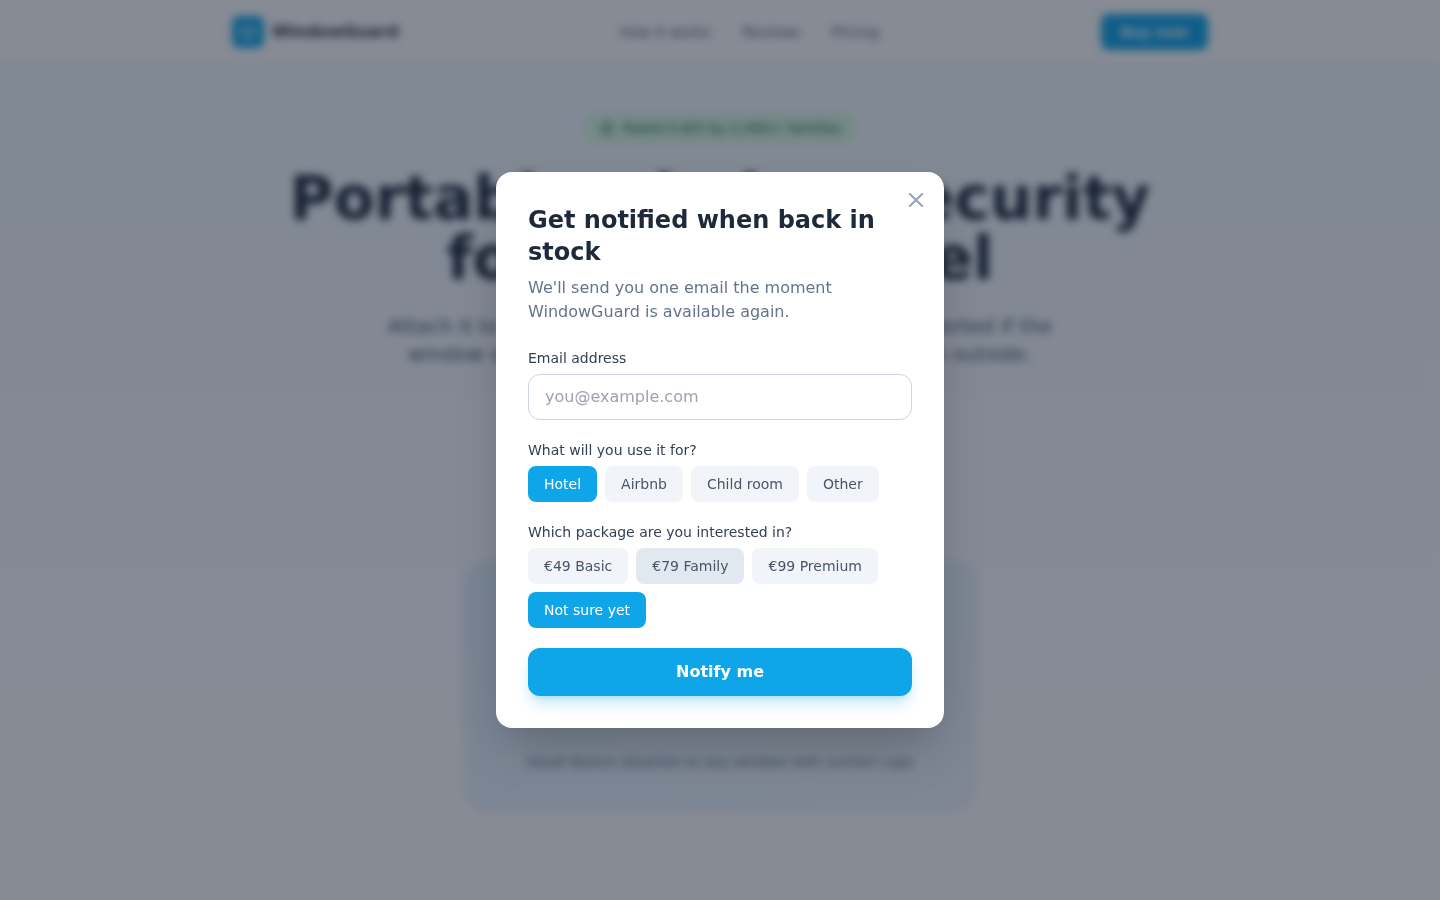
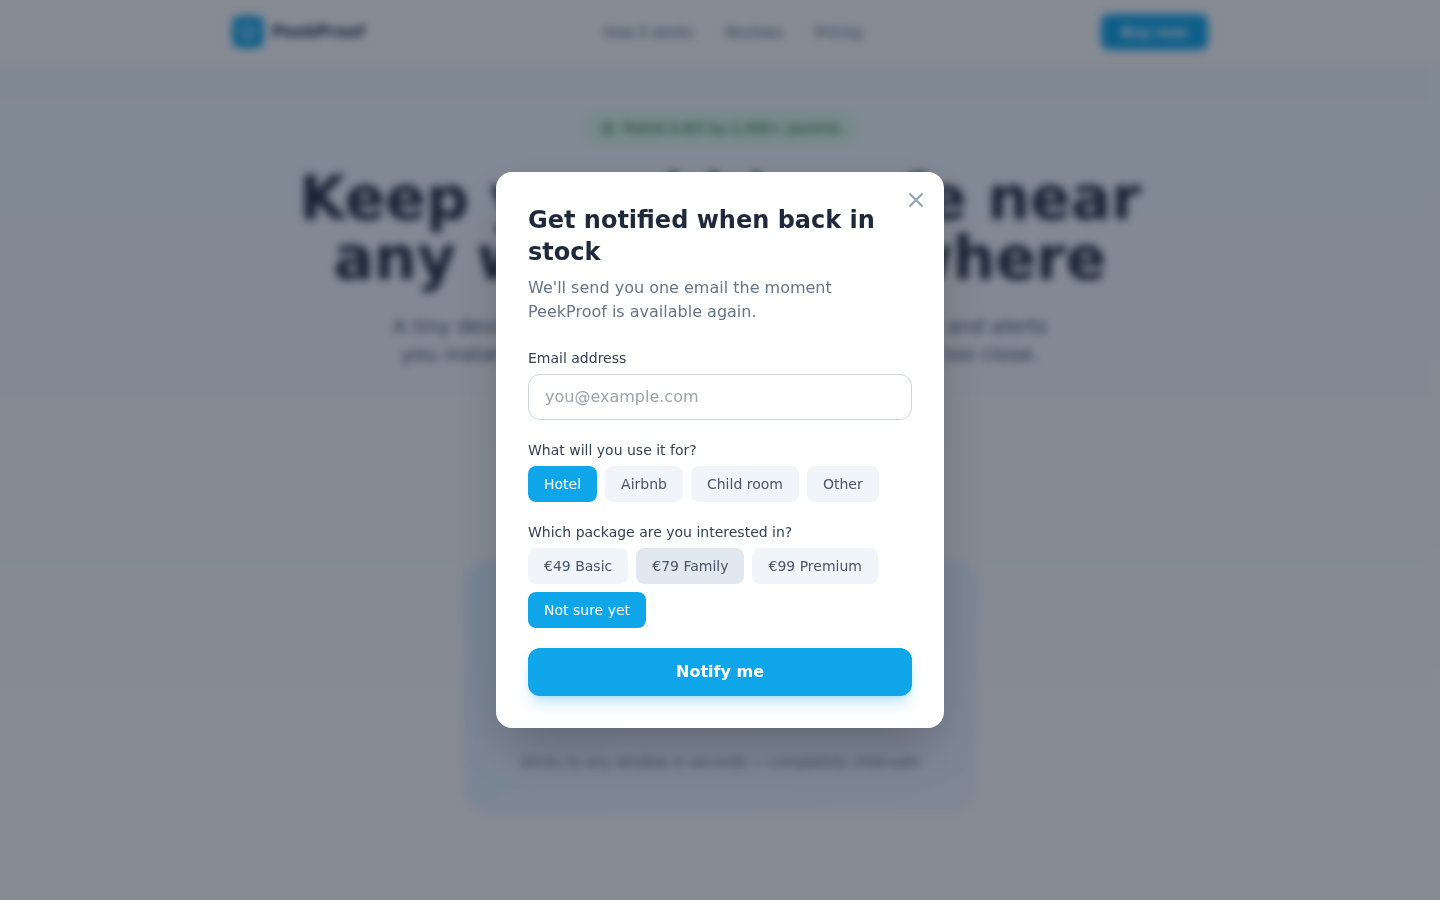
Rebrand to PeekProof with kids-focused copy
Rename from WindowGuard to PeekProof (peek-proof.com). All copy now
focuses on child safety: toddlers near windows, curious little hands,
parent-centric reviews, kid-specific problem/solution messaging.

https://claude.ai/code/session_01KqyRUPgKjWVWWm5yPpL3qu

diff --git a/src/components/ProblemSection.tsx b/src/components/ProblemSection.tsx
@@ -5,9 +5,9 @@ const problems = [
         <path strokeLinecap="round" strokeLinejoin="round" d="M21.752 15.002A9.72 9.72 0 0 1 18 15.75c-5.385 0-9.75-4.365-9.75-9.75 0-1.33.266-2.597.748-3.752A9.753 9.753 0 0 0 3 11.25C3 16.635 7.365 21 12.75 21a9.753 9.753 0 0 0 9.002-5.998Z" />
       </svg>
     ),
-    title: 'Kids sleeping in another room',
+    title: 'Kids in a separate room',
     description:
-      'On holiday, children often sleep in a separate hotel or Airbnb room. You can\'t always be next to the window.',
+      'Your toddler sleeps in the next room. You can\'t watch the window all night.',
   },
   {
     icon: (
@@ -15,9 +15,9 @@ const problems = [
         <path strokeLinecap="round" strokeLinejoin="round" d="M2.25 21h19.5m-18-18v18m10.5-18v18m6-13.5V21M6.75 6.75h.75m-.75 3h.75m-.75 3h.75m3-6h.75m-.75 3h.75m-.75 3h.75M6.75 21v-3.375c0-.621.504-1.125 1.125-1.125h2.25c.621 0 1.125.504 1.125 1.125V21M3 3h12m-.75 4.5H21m-3.75 3h.008v.008h-.008v-.008Zm0 3h.008v.008h-.008v-.008Zm0 3h.008v.008h-.008v-.008Z" />
       </svg>
     ),
-    title: 'Ground-floor windows',
+    title: 'Low windows kids can reach',
     description:
-      'Ground-floor hotel rooms and Airbnbs have windows that are easily accessible from outside.',
+      'Ground-floor rooms, balcony doors, and low windows that curious little hands can open.',
   },
   {
     icon: (
@@ -25,9 +25,9 @@ const problems = [
         <path strokeLinecap="round" strokeLinejoin="round" d="M9.879 7.519c1.171-1.025 3.071-1.025 4.242 0 1.172 1.025 1.172 2.687 0 3.712-.203.179-.43.326-.67.442-.745.361-1.45.999-1.45 1.827v.75M21 12a9 9 0 1 1-18 0 9 9 0 0 1 18 0Zm-9 5.25h.008v.008H12v-.008Z" />
       </svg>
     ),
-    title: 'Unknown locks and latches',
+    title: 'Unfamiliar locks and latches',
     description:
-      'Every accommodation has different window hardware. You never know if that lock actually holds.',
+      'Every place has different window hardware. A curious 3-year-old can figure them out faster than you think.',
   },
 ];
 
@@ -36,10 +36,10 @@ export default function ProblemSection() {
     <section className="py-20 px-4 sm:px-6 bg-white">
       <div className="max-w-5xl mx-auto">
         <h2 className="text-3xl sm:text-4xl font-bold text-slate-800 text-center mb-4">
-          Why thousands of families trust WindowGuard
+          Windows are the #1 overlooked danger for kids on holiday
         </h2>
         <p className="text-slate-500 text-center mb-14 max-w-2xl mx-auto">
-          Most parents worry about pool safety — but window access is just as important and much harder to control away from home.
+          Most parents childproof windows at home — but what about the hotel, the Airbnb, or grandma's house?
         </p>
         <div className="grid md:grid-cols-3 gap-8">
           {problems.map((item) => (

diff --git a/src/components/SolutionSection.tsx b/src/components/SolutionSection.tsx
@@ -5,9 +5,9 @@ const features = [
         <path strokeLinecap="round" strokeLinejoin="round" d="M13.5 10.5V6.75a4.5 4.5 0 1 1 9 0v3.75M3.75 21.75h10.5a2.25 2.25 0 0 0 2.25-2.25v-6.75a2.25 2.25 0 0 0-2.25-2.25H3.75a2.25 2.25 0 0 0-2.25 2.25v6.75a2.25 2.25 0 0 0 2.25 2.25Z" />
       </svg>
     ),
-    title: 'Detects window opening',
+    title: 'Knows when the window opens',
     description:
-      'Knows immediately when a window is opened — even if it\'s just a crack.',
+      'Alerts you the instant your child opens a window — even just a crack.',
   },
   {
     icon: (
@@ -15,9 +15,9 @@ const features = [
         <path strokeLinecap="round" strokeLinejoin="round" d="M3.75 13.5l10.5-11.25L12 10.5h8.25L9.75 21.75 12 13.5H3.75z" />
       </svg>
     ),
-    title: 'Detects impact or glass vibration',
+    title: 'Feels tapping and pushing',
     description:
-      'Built-in sensors pick up knocking, hitting, or any vibration on the glass.',
+      'Senses when little hands tap, push, or lean against the glass.',
   },
   {
     icon: (
@@ -25,9 +25,9 @@ const features = [
         <path strokeLinecap="round" strokeLinejoin="round" d="M14.857 17.082a23.848 23.848 0 0 0 5.454-1.31A8.967 8.967 0 0 1 18 9.75V9A6 6 0 0 0 6 9v.75a8.967 8.967 0 0 1-2.312 6.022c1.733.64 3.56 1.085 5.455 1.31m5.714 0a24.255 24.255 0 0 1-5.714 0m5.714 0a3 3 0 1 1-5.714 0" />
       </svg>
     ),
-    title: 'Alerts parents immediately',
+    title: 'Alerts you immediately',
     description:
-      'Get a loud alarm and a push notification on your phone the moment something happens.',
+      'Loud alarm plus a push notification on your phone — so you can get there in seconds.',
   },
 ];
 
@@ -39,7 +39,7 @@ export default function SolutionSection() {
           One small device. Three layers of protection.
         </h2>
         <p className="text-slate-500 text-center mb-14 max-w-2xl mx-auto">
-          WindowGuard combines multiple sensors in a pocket-sized device — trusted by over 10,000 travelling families worldwide.
+          PeekProof combines multiple sensors in a pocket-sized device — so you know the moment your child goes near a window.
         </p>
         <div className="grid md:grid-cols-3 gap-8">
           {features.map((item) => (

diff --git a/src/components/Hero.tsx b/src/components/Hero.tsx
@@ -22,14 +22,14 @@ export default function Hero({ onCtaClick }: HeroProps) {
           <svg className="w-4 h-4" fill="none" viewBox="0 0 24 24" strokeWidth={2} stroke="currentColor">
             <path strokeLinecap="round" strokeLinejoin="round" d="M11.48 3.499a.562.562 0 0 1 1.04 0l2.125 5.111a.563.563 0 0 0 .475.345l5.518.442c.499.04.701.663.321.988l-4.204 3.602a.563.563 0 0 0-.182.557l1.285 5.385a.562.562 0 0 1-.84.61l-4.725-2.885a.562.562 0 0 0-.586 0L6.982 20.54a.562.562 0 0 1-.84-.61l1.285-5.386a.562.562 0 0 0-.182-.557l-4.204-3.602a.562.562 0 0 1 .321-.988l5.518-.442a.563.563 0 0 0 .475-.345L11.48 3.5Z" />
           </svg>
-          Rated 4.8/5 by 2,400+ families
+          Rated 4.8/5 by 2,400+ parents
         </div>
         <h1 className="text-4xl sm:text-5xl md:text-6xl font-bold text-slate-800 leading-tight mb-6">
-          Portable window security for family travel
+          Keep your kids safe near any window, anywhere
         </h1>
         <p className="text-lg sm:text-xl text-slate-600 mb-4 max-w-2xl mx-auto leading-relaxed">
-          Attach it to a hotel or Airbnb window in seconds. Get alerted if the
-          window opens, gets hit, or someone approaches from outside.
+          A tiny device that sticks to any hotel or Airbnb window and alerts you
+          instantly if your child opens it, touches it, or gets too close.
         </p>
         <p className="text-sm text-slate-400 mb-10">Starting from €49 · Free shipping in the EU</p>
         <div className="flex flex-col sm:flex-row gap-4 justify-center mb-14">
@@ -63,7 +63,7 @@ export default function Hero({ onCtaClick }: HeroProps) {
             </div>
           </div>
           <p className="text-slate-500 text-sm mt-6">
-            Small device attaches to any window with suction cups
+            Sticks to any window in seconds — completely child-safe
           </p>
         </div>
       </div>

diff --git a/src/components/ReviewsSection.tsx b/src/components/ReviewsSection.tsx
@@ -3,19 +3,19 @@ const reviews = [
     name: 'Sarah M.',
     location: 'London, UK',
     stars: 5,
-    text: 'Used this in three different hotels across Spain. So easy to set up and gave us real peace of mind with the kids sleeping in the next room.',
+    text: 'Our 3-year-old figured out the hotel window latch in seconds. PeekProof caught it before we even stood up. Absolute lifesaver.',
   },
   {
     name: 'Thomas K.',
     location: 'Munich, Germany',
     stars: 5,
-    text: 'We had a ground-floor Airbnb in Lisbon and I felt so much better having the WindowGuard on. Worth every cent.',
+    text: 'We travel a lot with two toddlers. I put PeekProof on every window the moment we check in. Can finally relax.',
   },
   {
     name: 'Emma L.',
     location: 'Stockholm, Sweden',
     stars: 4,
-    text: 'Great concept and works really well. Battery lasts forever. Would love a version that connects to Apple Home in the future.',
+    text: 'My daughter sleepwalks. We use PeekProof at home on her bedroom window and take it to every holiday rental. Battery lasts months.',
   },
 ];
 
@@ -41,10 +41,10 @@ export default function ReviewsSection() {
     <section id="reviews" className="py-20 px-4 sm:px-6 bg-white">
       <div className="max-w-5xl mx-auto">
         <h2 className="text-3xl sm:text-4xl font-bold text-slate-800 text-center mb-4">
-          Loved by families worldwide
+          Loved by parents worldwide
         </h2>
         <p className="text-slate-500 text-center mb-14 max-w-xl mx-auto">
-          Over 10,000 devices sold. Here's what parents are saying.
+          Join thousands of parents who travel with peace of mind.
         </p>
         <div className="grid md:grid-cols-3 gap-8">
           {reviews.map((review) => (

diff --git a/src/components/EmailCaptureModal.tsx b/src/components/EmailCaptureModal.tsx
@@ -90,7 +90,7 @@ export default function EmailCaptureModal({ isOpen, onClose }: EmailCaptureModal
             </div>
             <h3 className="text-xl font-bold text-slate-800 mb-2">Sorry, we're sold out</h3>
             <p className="text-slate-600 mb-2">
-              WindowGuard is currently out of stock due to high demand.
+              PeekProof is currently out of stock due to high demand.
             </p>
             <p className="text-slate-500 text-sm mb-8">
               We're producing more units as fast as we can. Expected restock: 4–6 weeks.
@@ -117,7 +117,7 @@ export default function EmailCaptureModal({ isOpen, onClose }: EmailCaptureModal
           <>
             <h3 className="text-2xl font-bold text-slate-800 mb-2">Get notified when back in stock</h3>
             <p className="text-slate-500 mb-6">
-              We'll send you one email the moment WindowGuard is available again.
+              We'll send you one email the moment PeekProof is available again.
             </p>
             <form onSubmit={handleSubmit} className="space-y-5">
               <div>
@@ -198,7 +198,7 @@ export default function EmailCaptureModal({ isOpen, onClose }: EmailCaptureModal
             </div>
             <h3 className="text-xl font-bold text-slate-800 mb-2">You're on the list!</h3>
             <p className="text-slate-600">
-              Thanks! We'll email you as soon as WindowGuard is back in stock.
+              Thanks! We'll email you as soon as PeekProof is back in stock.
             </p>
           </div>
         )}

diff --git a/src/components/FaqSection.tsx b/src/components/FaqSection.tsx
@@ -4,12 +4,12 @@ const faqs = [
   {
     question: 'When will it be back in stock?',
     answer:
-      'Due to high demand, WindowGuard is currently sold out. We are working to restock as soon as possible. Sign up to be the first to know when it\'s available again.',
+      'Due to high demand, PeekProof is currently sold out. We are working to restock as soon as possible. Sign up to be the first to know when it\'s available again.',
   },
   {
     question: 'Does it use a camera?',
     answer:
-      'No. WindowGuard is privacy-first — it uses vibration and magnetic sensors only. There is no camera, no microphone, and no video recording of any kind.',
+      'No. PeekProof is privacy-first — it uses vibration and magnetic sensors only. There is no camera, no microphone, and no video recording of any kind.',
   },
   {
     question: 'Does it need hotel Wi-Fi?',
@@ -24,7 +24,7 @@ const faqs = [
   {
     question: 'Can I use it at home too?',
     answer:
-      'Absolutely. While WindowGuard was designed for travel, many customers use it on children\'s bedroom windows, basement windows, or any window they want to monitor at home.',
+      'Absolutely. Many parents use PeekProof full-time on their child\'s bedroom window, nursery, or playroom — not just when travelling.',
   },
 ];
 

diff --git a/src/components/Footer.tsx b/src/components/Footer.tsx
@@ -2,8 +2,8 @@ export default function Footer() {
   return (
     <footer className="bg-slate-800 text-slate-400 py-12 px-4 sm:px-6">
       <div className="max-w-5xl mx-auto text-center">
-        <p className="font-semibold text-white text-lg mb-2">WindowGuard</p>
-        <p className="text-sm mb-6">Portable window security for family travel</p>
+        <p className="font-semibold text-white text-lg mb-2">PeekProof</p>
+        <p className="text-sm mb-6">Window safety for kids, wherever you go</p>
         <div className="flex justify-center gap-8 text-sm mb-8">
           <a href="#how-it-works" className="hover:text-white transition-colors">
             How it works
@@ -16,7 +16,7 @@ export default function Footer() {
           </a>
         </div>
         <p className="text-xs text-slate-500">
-          &copy; {new Date().getFullYear()} WindowGuard. All rights reserved.
+          &copy; {new Date().getFullYear()} PeekProof. All rights reserved.
         </p>
       </div>
     </footer>

diff --git a/index.html b/index.html
@@ -3,8 +3,8 @@
   <head>
     <meta charset="UTF-8" />
     <meta name="viewport" content="width=device-width, initial-scale=1.0" />
-    <title>WindowGuard – Portable Window Security for Family Travel</title>
-    <meta name="description" content="WindowGuard attaches to any window and alerts you instantly. Trusted by thousands of travelling families." />
+    <title>PeekProof – Portable Window Security for Family Travel</title>
+    <meta name="description" content="PeekProof attaches to any window and alerts you instantly. Trusted by thousands of travelling families." />
     <link rel="preconnect" href="https://fonts.googleapis.com" />
     <link rel="preconnect" href="https://fonts.gstatic.com" crossorigin />
     <link href="https://fonts.googleapis.com/css2?family=Inter:wght@400;500;600;700&display=swap" rel="stylesheet" />

diff --git a/src/components/Navbar.tsx b/src/components/Navbar.tsx
@@ -19,7 +19,7 @@ export default function Navbar({ onBuyClick }: NavbarProps) {
               <path strokeLinecap="round" strokeLinejoin="round" d="M9 12.75 11.25 15 15 9.75m-3-7.036A11.959 11.959 0 0 1 3.598 6 11.99 11.99 0 0 0 3 9.749c0 5.592 3.824 10.29 9 11.623 5.176-1.332 9-6.03 9-11.622 0-1.31-.21-2.571-.598-3.751h-.152c-3.196 0-6.1-1.248-8.25-3.285Z" />
             </svg>
           </div>
-          <span className="font-bold text-slate-800">WindowGuard</span>
+          <span className="font-bold text-slate-800">PeekProof</span>
         </div>
         <div className="hidden sm:flex items-center gap-8 text-sm text-slate-600">
           <a href="#how-it-works" className="hover:text-slate-800 transition-colors">How it works</a>

diff --git a/src/components/HowItWorks.tsx b/src/components/HowItWorks.tsx
@@ -12,12 +12,12 @@ const steps = [
   {
     number: 3,
     title: 'Sleep with peace of mind',
-    description: 'Go to sleep knowing every window is monitored. No app setup required.',
+    description: 'Tuck the kids in knowing every window is watched. No app setup required.',
   },
   {
     number: 4,
     title: 'Instant alert',
-    description: 'If something happens, you get a loud alarm and phone notification immediately.',
+    description: 'If your child touches the window, you get a loud alarm and phone notification immediately.',
   },
 ];
 
